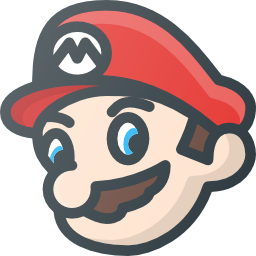
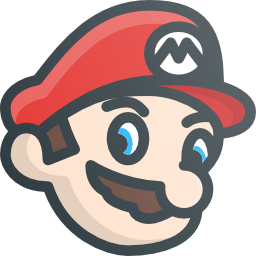
Tokens now flip to face the direction they're headed
Currently flips all tokens (has no effect on symmetrical tokens). Default orientation is player facing right.

diff --git a/src/View/BoardEntityLoader.java b/src/View/BoardEntityLoader.java
@@ -54,7 +54,7 @@ public class BoardEntityLoader extends BoardLoader{
 	public void onLoad(Player player) {
 		ImageView view = new ImageView(new Image(String.valueOf(getClass().getClassLoader().getResource("asset/token" + player.getPlayerToken() + ".png"))));
 		view.setPreserveRatio(true);
-		view.setFitHeight(gamescreen.getSceneHeight()/(float)engine.getBoard().getHeight()*0.7f);
+		view.setFitHeight(gamescreen.getSceneHeight()/(float)engine.getBoard().getHeight()*0.75f);
 		view.setId("player");
 		addEntity(player, view);
 	}
@@ -157,7 +157,19 @@ public class BoardEntityLoader extends BoardLoader{
 			public void changed(ObservableValue<? extends Number> observable,
 	        	Number oldValue, Number newValue) {
 	        	GridPane.setRowIndex(node, engine.getBoard().getHeight()-1-newValue.intValue());
-			}
+	        	if(entity instanceof Player) {
+	        		Player playerEntity = (Player) entity;
+	        		switch(playerEntity.getPlayerToken()) {
+	        			default:
+	        				if(newValue.intValue()%2 == 1) {
+		        				node.setScaleX(-1);
+		        			} else {
+		        				node.setScaleX(1);
+		        			}
+	        				break;
+	        		}
+	        	}
+	        }
 		});
 		
 		
